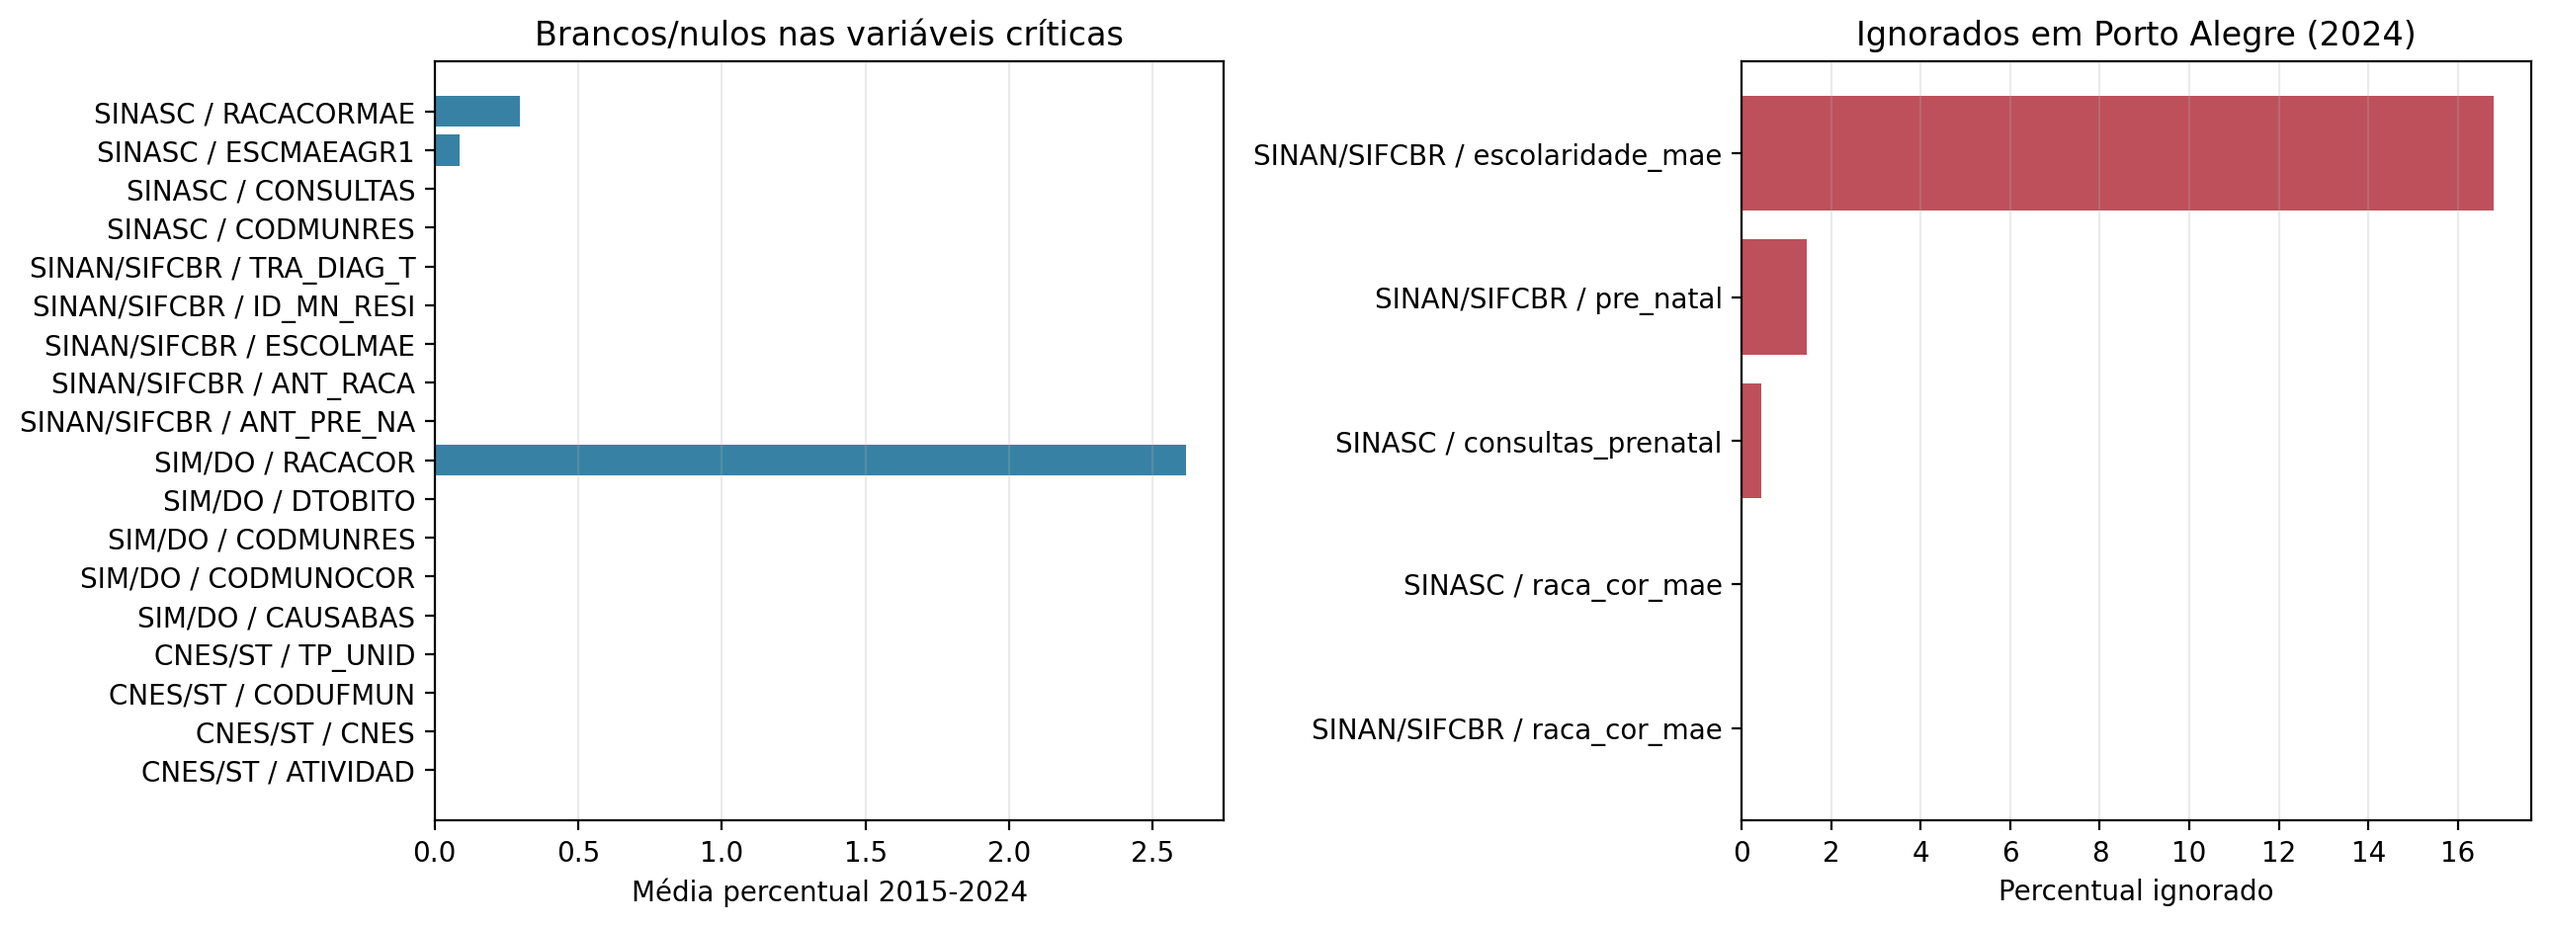
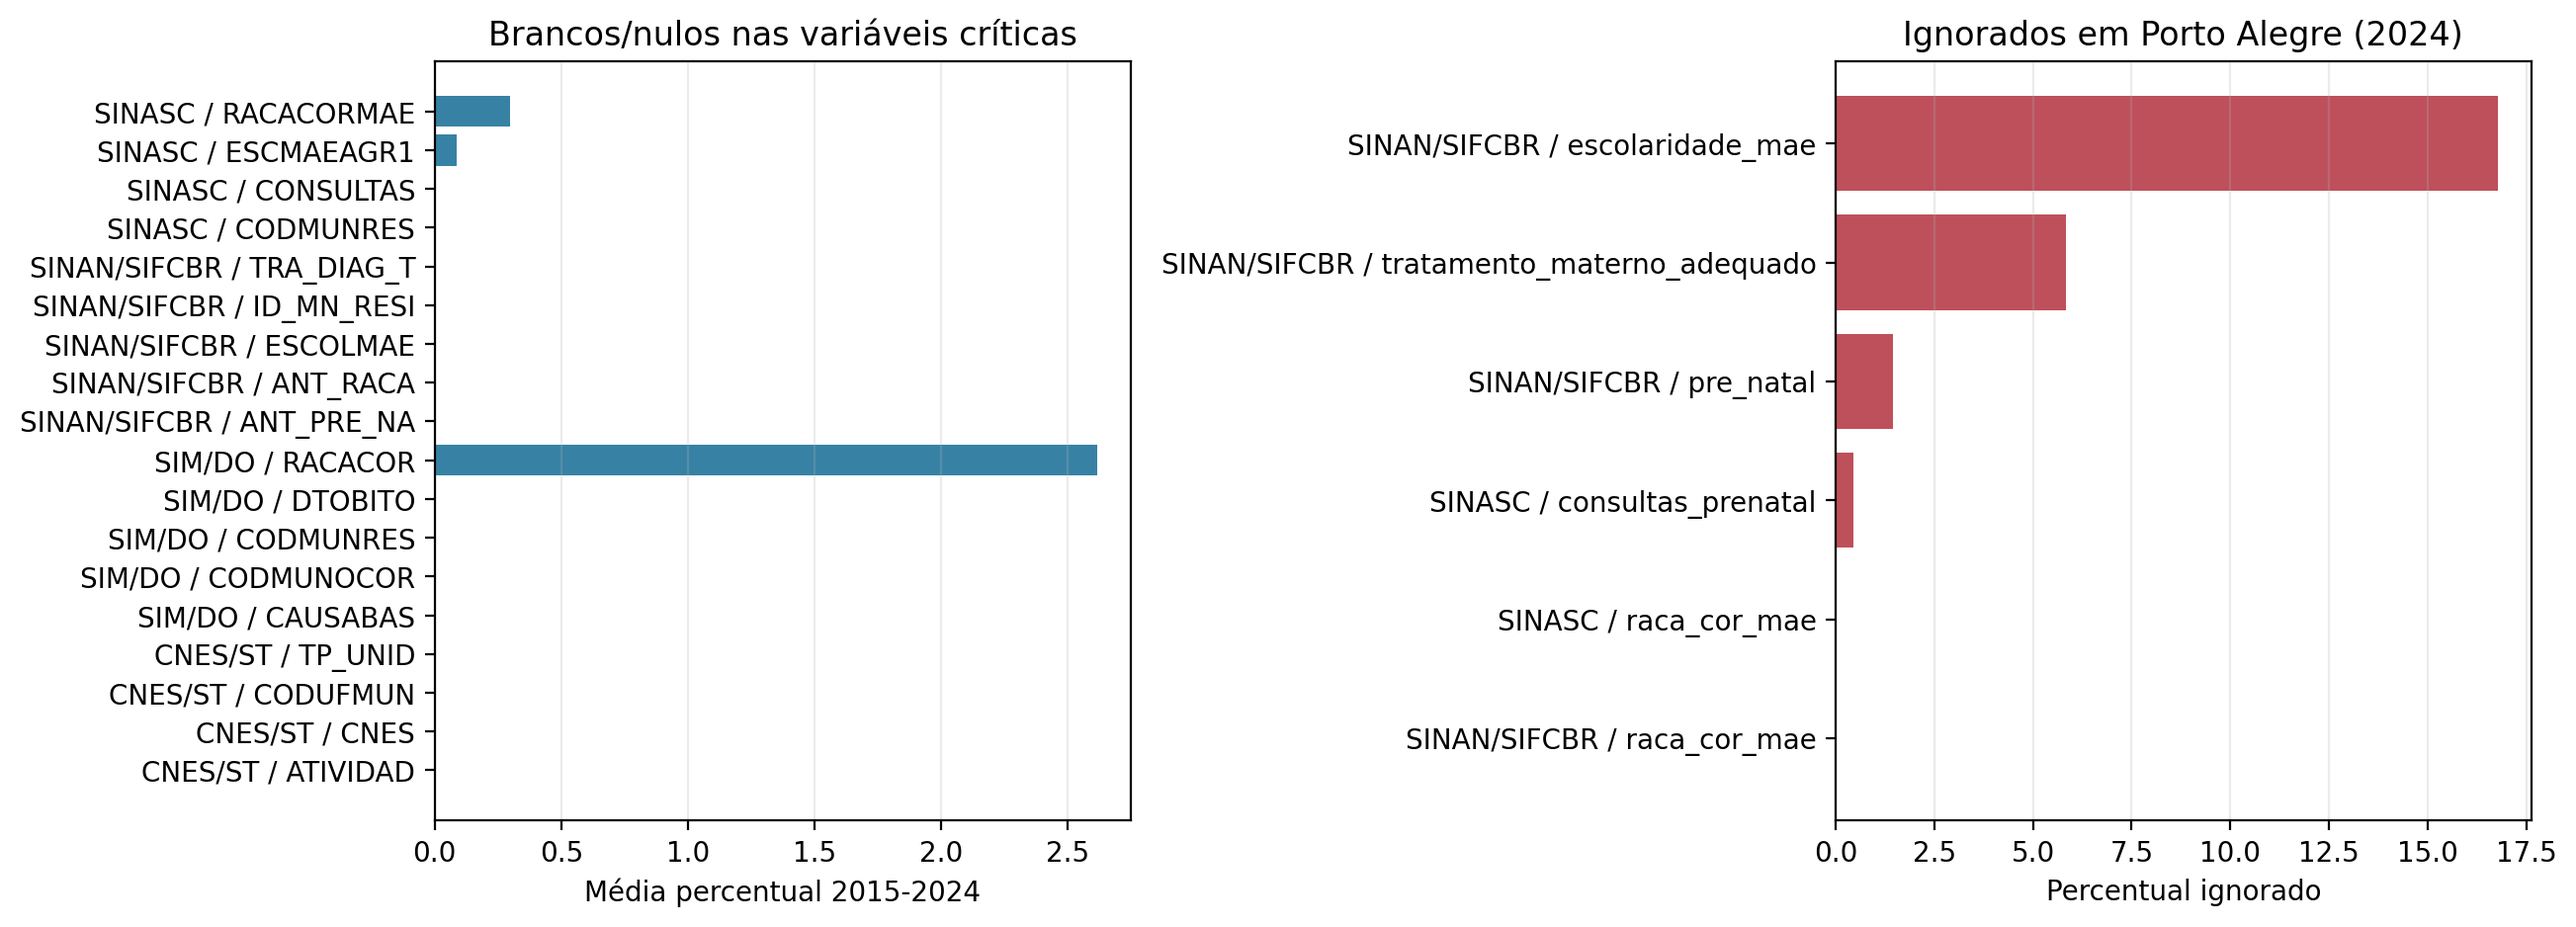
feat(notebooks): rastrear geracao dos graficos analiticos

diff --git a/src/notebooks/execute_notebooks.py b/src/notebooks/execute_notebooks.py
@@ -1,0 +1,87 @@
+from __future__ import annotations
+
+import argparse
+import json
+import os
+import sys
+import types
+from pathlib import Path
+from types import SimpleNamespace
+
+from src.config import ROOT
+
+
+DEFAULT_NOTEBOOKS = [
+    "notebooks/analytics/00_validacao_ambiente_dados.ipynb",
+    "notebooks/analytics/01_overview_sifilis_congenita.ipynb",
+    "notebooks/analytics/02_auditoria_basedosdados.ipynb",
+    "notebooks/analytics/03_prenatal_raca_escolaridade.ipynb",
+    "notebooks/analytics/04_perfil_colunas_qualidade.ipynb",
+    "notebooks/analytics/05_serie_historica_incidencia.ipynb",
+    "notebooks/analytics/06_desigualdade_racial_incidencia.ipynb",
+    "notebooks/analytics/07_diagnostico_tratamento_cuidado.ipynb",
+    "notebooks/analytics/08_contexto_cnes_ibge_sim.ipynb",
+    "notebooks/analytics/09_sintese_desigualdade_racial.ipynb",
+    "notebooks/analytics/10_contexto_integrado_basedosdados.ipynb",
+    "notebooks/visualizacao_sifilis_congenita_poars.ipynb",
+]
+
+
+def parse_args() -> argparse.Namespace:
+    parser = argparse.ArgumentParser(description="Executa notebooks do projeto sem depender de Jupyter.")
+    parser.add_argument(
+        "notebooks",
+        nargs="*",
+        help="Caminhos dos notebooks a executar. Quando omitido, executa os notebooks analiticos documentados.",
+    )
+    return parser.parse_args()
+
+
+def display(*objects: object, **_: object) -> None:
+    for obj in objects:
+        print(obj)
+
+
+def get_ipython() -> None:
+    return None
+
+
+def execute_notebook(path: Path) -> None:
+    os.environ.setdefault("MPLBACKEND", "Agg")
+    os.environ.setdefault("MPLCONFIGDIR", str(ROOT / ".matplotlib"))
+    (ROOT / ".matplotlib").mkdir(exist_ok=True)
+    data = json.loads(path.read_text(encoding="utf-8"))
+    module_name = f"notebook_{path.stem}"
+    module = types.ModuleType(module_name)
+    sys.modules[module_name] = module
+    namespace = module.__dict__
+    namespace.update(
+        {
+            "__name__": module_name,
+            "__file__": str(path),
+            "display": display,
+            "get_ipython": get_ipython,
+            "Image": lambda **kwargs: SimpleNamespace(**kwargs),
+        }
+    )
+    os.chdir(ROOT)
+    print(f"Executando {path}")
+    for index, cell in enumerate(data.get("cells", []), start=1):
+        if cell.get("cell_type") != "code":
+            continue
+        source = "".join(cell.get("source", []))
+        if not source.strip():
+            continue
+        compiled = compile(source, f"{path}#cell-{index}", "exec")
+        exec(compiled, namespace)
+
+
+def main() -> None:
+    args = parse_args()
+    notebooks = args.notebooks or DEFAULT_NOTEBOOKS
+    for notebook in notebooks:
+        execute_notebook(ROOT / notebook)
+
+
+if __name__ == "__main__":
+    main()

diff --git a/src/notebooks/__init__.py b/src/notebooks/__init__.py
@@ -1,0 +1,1 @@
+"""Notebook execution helpers."""
